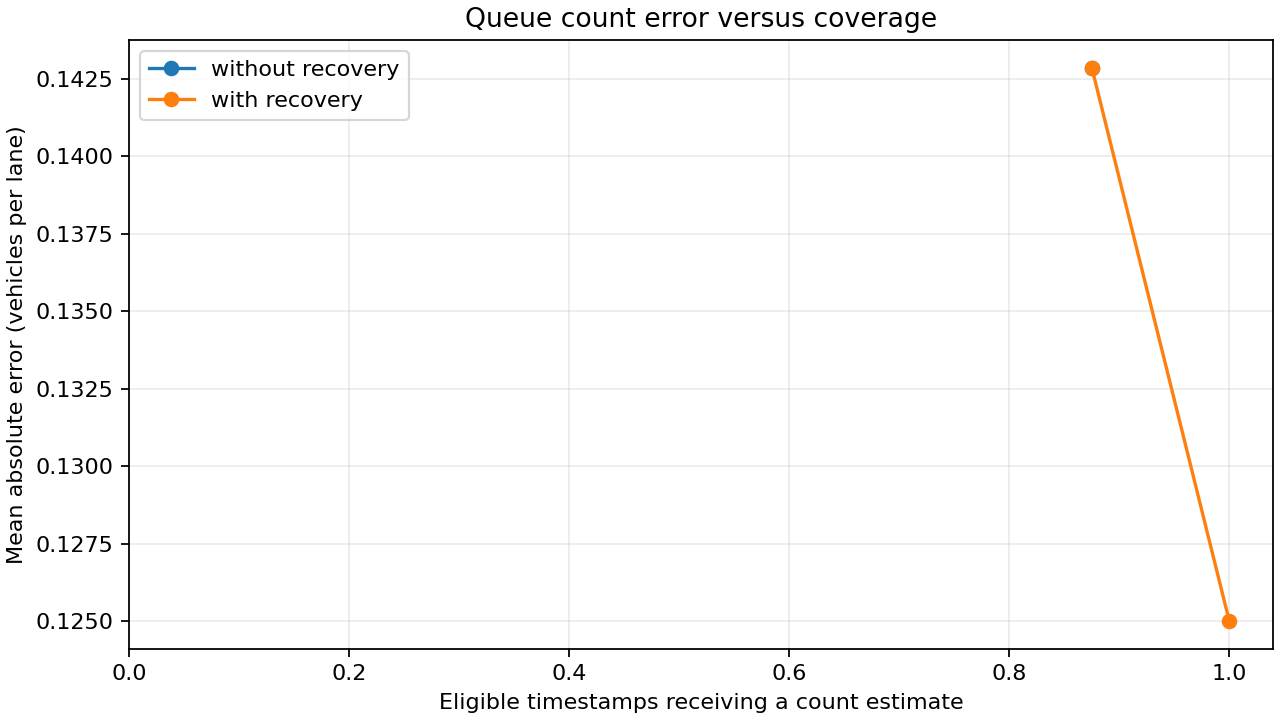
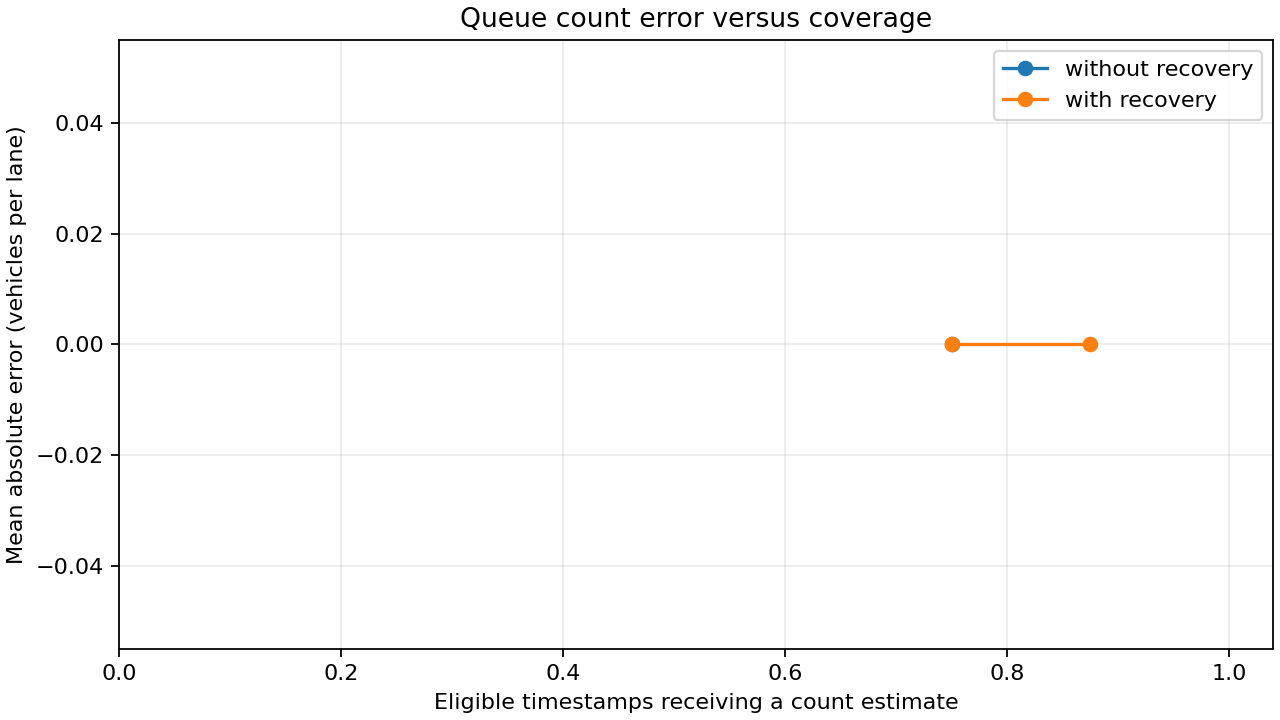
Abstain on unsupported queue counts and require complete cycle evidence

diff --git a/scripts/infer.py b/scripts/infer.py
@@ -2,7 +2,9 @@
 
 import argparse
 import json
-from math import hypot
+from collections import deque
+from bisect import bisect_right
+from statistics import median
 from pathlib import Path
 import sys
 from time import perf_counter
@@ -23,6 +25,8 @@ def main():
     parser.add_argument("--weights", type=Path, required=True)
     parser.add_argument("--method", choices=("tracking", "geometry", "temporal"), default="temporal")
     parser.add_argument("--max-frames", type=int)
+    parser.add_argument("--phase-events", type=Path, help="JSON mapping lane IDs to verified phase transitions")
+    parser.add_argument("--approach-crop", action="store_true", help="Magnify the configured lanes with surrounding context")
     parser.add_argument("--device", default="cpu")
     args = parser.parse_args()
     import cv2
@@ -31,6 +35,16 @@ def main():
     camera = json.loads(args.camera.read_text())
     lanes = [Lane(row["id"], tuple(map(tuple, row["polygon"])), tuple(row["stop"]),
                   tuple(row["upstream"]), row["visible_distance"]) for row in camera["lanes"]]
+    phase_data = json.loads(args.phase_events.read_text()) if args.phase_events else camera.get("phase_events", {})
+    phase_clocks = {}
+    for lane_id, entry in phase_data.items():
+        events = entry["events"]
+        clock = [event["time"] for event in events]
+        if not entry["source"] or any(a >= b for a, b in zip(clock, clock[1:])) or any(
+            event["phase"] not in {"red", "amber", "green", None} for event in events
+        ):
+            raise ValueError("Phase events require ordered timestamps, valid states and source provenance")
+        phase_clocks[lane_id] = clock
     matrix = camera["image_to_ground"]
     if args.method == "tracking":
         lanes = [Lane(row["id"], tuple(map(tuple, row["image_polygon"])), tuple(row["image_stop"]),
@@ -40,12 +54,13 @@ def main():
         recovery=1.0 if args.method == "temporal" else 0.0,
         **(dict(slow_speed=5, max_gap=30, tail_margin=10) if args.method == "tracking" else {}),
     )
+    region = [point for lane in camera["lanes"] for point in lane["image_polygon"]]
     model = YOLO(str(args.weights), task="detect")
     capture = cv2.VideoCapture(str(args.video))
     fps = capture.get(cv2.CAP_PROP_FPS)
     if not capture.isOpened() or fps <= 0:
         raise ValueError("Video is unreadable or frame rate is unknown")
-    previous = {}
+    history = {}
     results = []
     frame_index = 0
     start = perf_counter()
@@ -55,11 +70,21 @@ def main():
             if not ok:
                 break
             timestamp = frame_index / fps
-            inference = model.track(frame, persist=True, tracker="bytetrack.yaml",
+            x_offset = y_offset = 0
+            image = frame
+            if args.approach_crop:
+                xs, ys = zip(*region)
+                x_offset, y_offset = max(0, int(min(xs)) - 64), max(0, int(min(ys)) - 64)
+                right = min(frame.shape[1], int(max(xs)) + 64)
+                bottom = min(frame.shape[0], int(max(ys)) + 64)
+                image = frame[y_offset:bottom, x_offset:right]
+                if image.size == 0:
+                    raise ValueError("Camera approach falls outside the recording")
+            inference = model.track(image, persist=True, tracker="bytetrack.yaml",
                                     verbose=False, device=args.device)[0]
             boxes = inference.boxes
             observations, evidence, obscured = [], [], set()
-            current = {}
+            current = set()
             if boxes.id is not None:
                 detections = zip(boxes.xyxy.cpu().tolist(), boxes.id.int().cpu().tolist(),
                                  boxes.cls.int().cpu().tolist())
@@ -67,27 +92,41 @@ def main():
                     label = inference.names[class_id]
                     if label not in VEHICLE_CLASSES:
                         continue
-                    x1, y1, x2, y2 = box
-                    pixel = ((x1 + x2) / 2, y2)
+                    x1, y1, x2, y2 = box = [
+                        box[0] + x_offset, box[1] + y_offset,
+                        box[2] + x_offset, box[3] + y_offset,
+                    ]
+                    pixel = ((x1 + x2) / 2, (y1 + y2) / 2)
                     point = pixel if args.method == "tracking" else project(pixel, matrix)
                     lane = lane_at(lanes, point)
                     if lane is None:
                         continue
-                    old = previous.get(identity)
-                    speed = hypot(point[0] - old[0], point[1] - old[1]) * fps if old else float("inf")
+                    distance = lane.distance(point)
+                    samples = history.setdefault(identity, deque())
+                    if samples and (samples[-1][1] != lane.id or timestamp - samples[-1][0] > 0.3):
+                        samples.clear()
+                    samples.append((timestamp, lane.id, distance))
+                    while timestamp - samples[0][0] > 0.8:
+                        samples.popleft()
+                    elapsed = timestamp - samples[0][0]
+                    distance = median(sample[2] for sample in list(samples)[-3:])
+                    speed = abs(distance - median(sample[2] for sample in list(samples)[:3])) / elapsed if elapsed >= 0.4 else float("inf")
                     length = 12.0 if label in {"bus", "truck"} else 4.5
                     if args.method == "tracking":
                         length = 18.0
                     if label in {"bus", "truck"}:
                         obscured.add(lane.id)
-                    current[identity] = point
-                    observations.append(Observation(identity, lane.id, lane.distance(point), speed, length))
-                    evidence.append({"id": identity, "lane": lane.id, "box": box, "class": label})
-            previous = current
+                    current.add(identity)
+                    observations.append(Observation(identity, lane.id, distance, speed, length))
+                    evidence.append({"id": identity, "lane": lane.id, "box": box, "class": label,
+                                     "distance": distance, "speed": speed if speed != float("inf") else None})
+            history = {identity: history[identity] for identity in current}
             states = estimator.update(timestamp, observations, obscured if args.method == "temporal" else ())
             for lane_id, state in states.items():
-                results.append({"recording": args.recording, "time": timestamp, "lane": lane_id, "model": f"{args.weights.name}/{args.method}",
-                                "phase": None, "phase_source": None,
+                index = bisect_right(phase_clocks.get(lane_id, ()), timestamp) - 1
+                phase = phase_data[lane_id]["events"][index]["phase"] if index >= 0 else None
+                results.append({"recording": args.recording, "time": timestamp, "lane": lane_id, "model": f"{args.weights.name}/{args.method}" + ("/crop" if args.approach_crop else ""),
+                                "phase": phase, "phase_source": phase_data[lane_id]["source"] if phase else None,
                                 "tracks": [track for track in evidence if track["lane"] == lane_id], **state})
             frame_index += 1
     finally:

diff --git a/traffic_queue/estimator.py b/traffic_queue/estimator.py
@@ -32,7 +32,7 @@ class QueueEstimator:
         self.previous_queue = set()
         self.previous_time = None
 
-    def update(self, timestamp, observations, obscured=()):
+    def update(self, timestamp, observations, obscured=(), observed_empty=()):
         if self.previous_time is not None and timestamp <= self.previous_time:
             raise ValueError("Timestamps must be strictly increasing")
         observations = tuple(observations)
@@ -40,6 +40,7 @@ class QueueEstimator:
         if len(visible) != len(observations):
             raise ValueError("Duplicate track ID in frame")
         obscured = set(obscured)
+        observed_empty = set(observed_empty)
         self.previous_time = timestamp
         for identity, observation in visible.items():
             old = self.tracks.get(identity)
@@ -75,19 +76,19 @@ class QueueEstimator:
                     continue
                 if item.distance - rear > self.max_gap:
                     break
-                rear = item.distance + item.length
+                rear = max(rear, item.distance + item.length)
                 queued.add(item.id)
                 (recovered_ids if carried else seen_ids).append(item.id)
             state = "estimate"
             count = len(seen_ids) + len(recovered_ids)
             if seen_ids and rear >= limit - self.tail_margin:
                 state, count = "lower_bound", len(seen_ids)
-            elif lane in obscured and not recovered_ids:
+            elif (lane in obscured and not recovered_ids) or (not count and lane not in observed_empty):
                 state, count = "uncertain", None
             result[lane] = {
                 "state": state, "count": count, "visible_ids": seen_ids,
                 "recovered_ids": recovered_ids, "tail_distance": rear if seen_ids or recovered_ids else None,
-                "confidence": 0.65 if recovered_ids else (1.0 if state == "estimate" else 0.0),
+                "confidence": (0.65 if recovered_ids else 0.85) if state == "estimate" else 0.0,
             }
         self.previous_queue = queued
         return result

diff --git a/traffic_queue/evaluation.py b/traffic_queue/evaluation.py
@@ -52,6 +52,19 @@ def cycle_peaks(rows):
             groups[row["recording"], row["lane"], row["cycle"]].append(row)
     errors = []
     for group in groups.values():
+        clocks = {tuple(row.get(field) for field in ("cycle_start_ms", "cycle_end_ms", "cycle_step_ms"))
+                  for row in group}
+        if len(clocks) != 1:
+            continue
+        start, end, step = clocks.pop()
+        if any(type(value) is not int for value in (start, end, step)):
+            continue
+        stamps = sorted(round(row["time"] * 1000) for row in group)
+        if step <= 0 or end <= start or len(stamps) < 2:
+            continue
+        expected = range(start, end, step)
+        if len(stamps) != len(expected) or any(a != b for a, b in zip(stamps, expected)):
+            continue
         if all(row["reference"] is not None and row["state"] == "estimate" for row in group):
             errors.append(max(row["count"] for row in group) - max(row["reference"] for row in group))
     return {"cycles": len(groups), "scored_cycles": len(errors),

diff --git a/scripts/run_fixture.py b/scripts/run_fixture.py
@@ -17,7 +17,8 @@ def run(scenario, recovery):
     for frame in scenario["frames"]:
         observations = [Observation(identity, lane, distance, speed)
                         for identity, distance, speed in frame["tracks"]]
-        state = estimator.update(frame["time"], observations, [lane] if frame.get("obscured") else [])
+        state = estimator.update(frame["time"], observations, [lane] if frame.get("obscured") else [],
+                                 observed_empty=[lane] if frame.get("observed_empty") else [])
         rows.append({"time": frame["time"], "lane": lane, "phase": frame["phase"],
                      "reference": frame["reference"], **state[lane]})
     return rows

diff --git a/tests/test_estimator.py b/tests/test_estimator.py
@@ -29,5 +29,9 @@ class QueueStateTests(unittest.TestCase):
     def test_green_discharge_clears_moving_tracks(self):
         estimator = QueueEstimator({"north": 30}, dwell=0)
         estimator.update(0, [Observation(1, "north", 2, 0)])
-        lane = estimator.update(1, [Observation(1, "north", 1, 4)])["north"]
+        lane = estimator.update(1, [Observation(1, "north", 1, 4)], observed_empty=["north"])["north"]
         self.assertEqual(lane["count"], 0)
+
+    def test_missing_detection_evidence_is_uncertain(self):
+        lane = QueueEstimator({"north": 30}).update(0, [])["north"]
+        self.assertEqual((lane["state"], lane["count"]), ("uncertain", None))

diff --git a/tests/test_benchmark_join.py b/tests/test_benchmark_join.py
@@ -17,4 +17,7 @@ class BenchmarkJoinTests(unittest.TestCase):
             dict(recording="video", lane="a", cycle=1, reference=3, state="estimate", count=2),
             dict(recording="video", lane="b", cycle=1, reference=5, state="uncertain", count=None),
         ]
+        for time, row in zip((0, 1, 0), rows):
+            row.update(time=time, cycle_start_ms=0, cycle_end_ms=2000, cycle_step_ms=1000)
+        self.assertEqual(cycle_peaks(rows[:1])["scored_cycles"], 0)
         self.assertEqual(cycle_peaks(rows), {"cycles": 2, "scored_cycles": 1, "mae": 1})

diff --git a/docs/smoke-test.md b/docs/smoke-test.md
@@ -25,3 +25,19 @@ per second. It produced 1,800 lane-timestamp rows across two lanes. The
 prototype issued an estimate for 1,758 rows and marked 42 uncertain. These
 are counts of output states before any accuracy audit. In particular, the
 high estimate coverage does not validate the confidence heuristic.
+
+## Audit follow-up
+
+Reviewing the saved outputs showed that every issued estimate in the original
+900-frame run was zero. The decoded approach contains stopped vehicles.
+That run remains useful for timing only.
+
+The revised estimator abstains when there is no evidence for a zero. A causal
+longitudinal speed estimate smooths short-term detector jitter. On 120
+Peachtree frames, full-frame inference produced tracks on 143 of 240
+lane-timestamps. Approach cropping produced tracks on 176. Both variants
+abstained on all 240. Longer diagnostic traces include stable slow vehicles
+roughly 29–34 nominal metres upstream and intermittent tracks near the stop
+line. The estimator cannot establish a continuous queue from those tracks.
+Ground dimensions are approximate. These diagnostic frames should be
+excluded from any future frozen test split if they guide tuning.

diff --git a/docs/annotation.md b/docs/annotation.md
@@ -25,3 +25,9 @@ time in seconds, split, verified cycle identifier when available, phase,
 occlusion category and integer reference count or null. Save timestamps for
 cross-view checks and the evidence behind corrections. If cycles are scored,
 use complete audited intervals and define the sampling cadence in the manifest.
+
+For cycle peak scoring, attach the same integer `cycle_start_ms`, exclusive
+`cycle_end_ms`, and positive `cycle_step_ms` to every row in a lane cycle.
+Two or more expected sample timestamps must all be present exactly once, with
+a reference count and an estimate at each timestamp. Derive the bounds from
+independently verified phase transitions.
